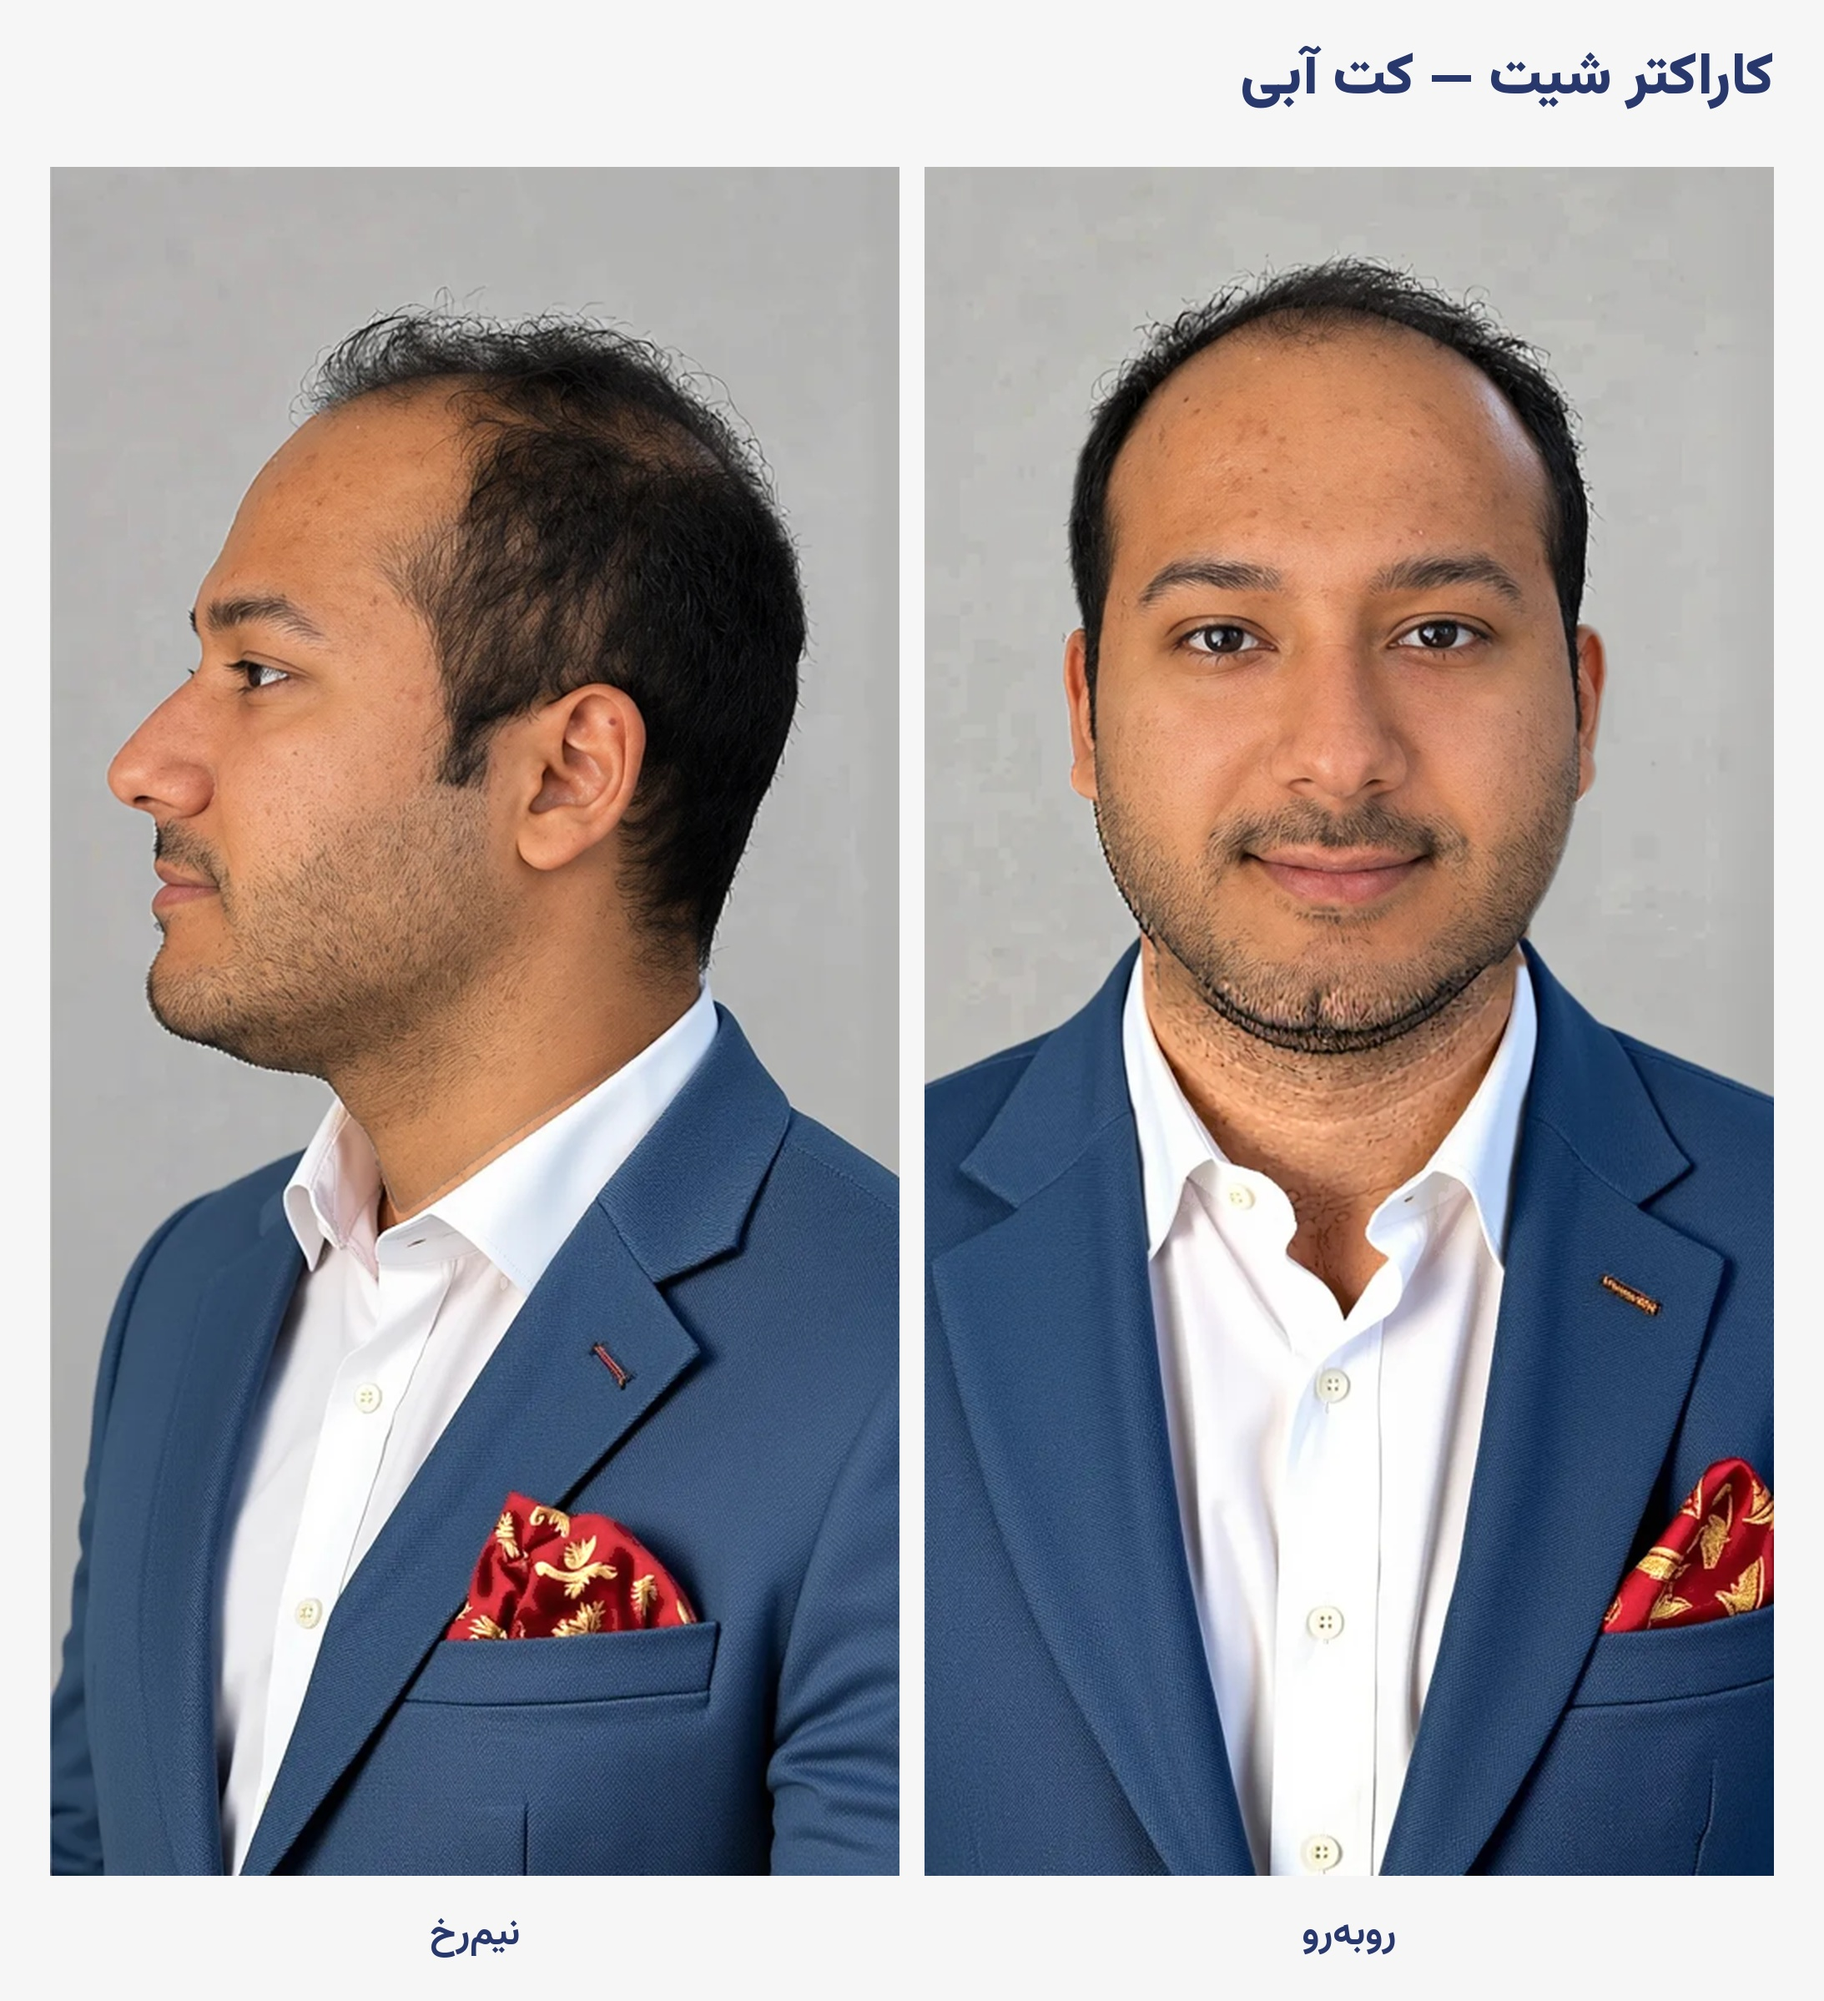
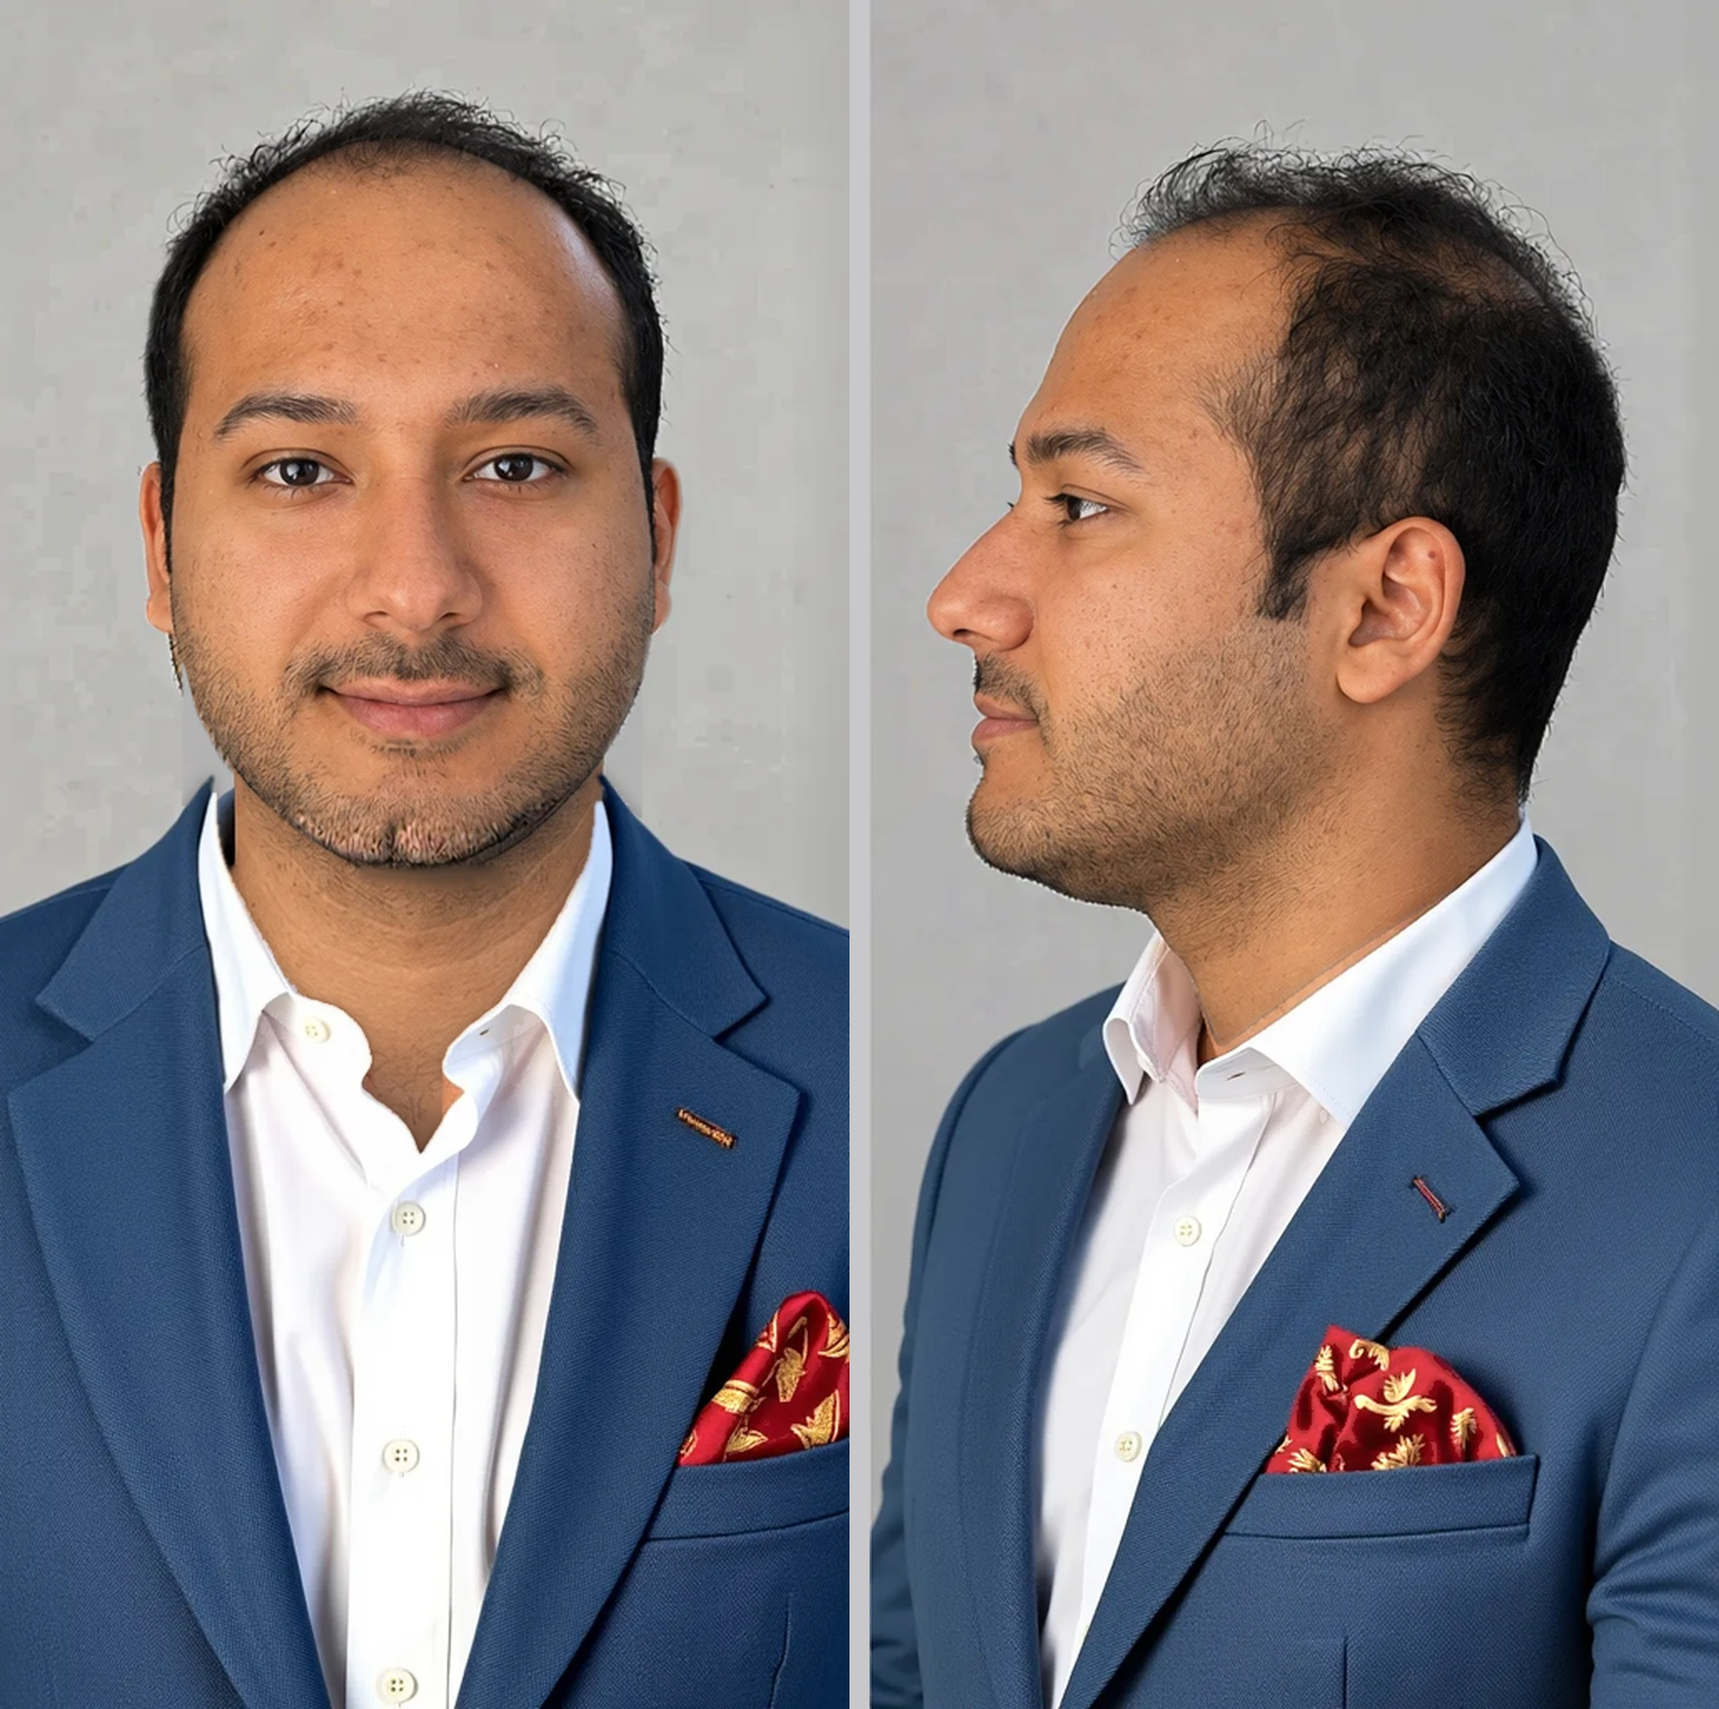
charsheet3: rebuild front-view neck from the real neck; sheet without text
Claude-Session: https://claude.ai/code/session_019xSwsWcuiYfpWtavD3JaNU

diff --git a/studio/photos/charsheet3/fix_neck.py b/studio/photos/charsheet3/fix_neck.py
@@ -1,0 +1,47 @@
+"""Rebuild the front-view neck from the REAL neck in p1, stretched to reach the new shirt collar."""
+import cv2, numpy as np
+F = cv2.imread("f1.png").astype(np.float32); P = cv2.imread("p1.png")
+pl, fl = np.load("p1_lm.npy"), np.load("f1_lm.npy")
+h, w = F.shape[:2]
+# 1. real neck in p1 with the polo (collar + placket) inpainted away
+b, g, r = [P[..., i].astype(int) for i in range(3)]
+polo = ((b > r + 10) | (P.mean(2) < 70)) & (np.arange(P.shape[0])[:, None] > pl[152][1] + 4)
+polo = cv2.dilate(polo.astype(np.uint8), np.ones((7, 7), np.uint8))
+Pn = cv2.inpaint(P, polo, 15, cv2.INPAINT_TELEA).astype(np.float32)
+# 2. map: head similarity (p1 -> f1), plus a stretch below the chin so the neck reaches the collar
+M, _ = cv2.estimateAffinePartial2D(pl, fl)
+cp, cf = pl[152], fl[152]
+SY, SX = 1.25, 1.18                         # below-chin vertical / horizontal stretch (new collar sits lower & wider)
+yy, xx = np.mgrid[0:h, 0:w].astype(np.float32)
+s = np.sqrt(M[0, 0] ** 2 + M[1, 0] ** 2)
+dy = np.clip(yy - cf[1], 0, None)
+src_y = cp[1] + (yy - cf[1]) / s - dy / s * (1 - 1 / SY)
+src_x = cp[0] + (xx - cf[0]) / s / np.where(yy > cf[1], 1 + (SX - 1) * np.clip(dy / 60, 0, 1), 1)
+neck_src = cv2.remap(Pn, src_x.astype(np.float32), src_y.astype(np.float32), cv2.INTER_CUBIC, borderMode=cv2.BORDER_REPLICATE)
+# 3. where to paste: below the jaw line, not on shirt/jacket, inside the neck column
+Lf = cv2.cvtColor(F.astype(np.uint8), cv2.COLOR_BGR2LAB).astype(np.float32)
+cloth = ((Lf[..., 0] > 200) & (np.abs(Lf[..., 1] - 128) < 8)) | (F[..., 0] > F[..., 2] + 25)
+cloth = cv2.morphologyEx(cloth.astype(np.uint8), cv2.MORPH_OPEN, np.ones((3, 3), np.uint8)) > 0
+JAW = [234, 93, 132, 58, 172, 136, 150, 149, 176, 148, 152, 377, 400, 378, 379, 365, 397, 288, 361, 323, 454]
+jaw = fl[JAW]
+below = np.zeros((h, w), np.uint8)
+poly = np.vstack([jaw, [[jaw[-1][0], h], [jaw[0][0], h]]]).astype(np.int32)
+cv2.fillPoly(below, [poly], 1)
+m = (below > 0) & ~cloth & (yy < cf[1] + 220)
+# only above the first shirt/jacket pixel of each column (shirt shadows are not neck)
+first = np.full(w, h)
+for x in range(w):
+    c = np.nonzero(cloth[int(cf[1]):, x])[0]
+    if len(c): first[x] = int(cf[1]) + c[0]
+m &= yy < first[None, :]
+m &= (xx > jaw[:, 0].min() + 4) & (xx < jaw[:, 0].max() - 4)
+m = cv2.morphologyEx(m.astype(np.uint8), cv2.MORPH_OPEN, np.ones((3, 3), np.uint8)).astype(np.float32)
+# soft at the jaw (keeps the real beard edge), crisp at the collar
+jawsoft = np.clip((yy - np.interp(xx, jaw[:, 0], jaw[:, 1])) / 6.0, 0, 1)
+a = (cv2.GaussianBlur(m, (0, 0), 1.0) * jawsoft)[..., None]
+out = F * (1 - a) + neck_src * a
+# collar casts a little shadow on the neck
+cl = cv2.dilate(cloth.astype(np.uint8), np.ones((3, 3), np.uint8)).astype(np.float32)
+shadow = cv2.GaussianBlur(cl, (0, 0), 4) * m * 0.22
+out *= (1 - shadow[..., None])
+cv2.imwrite("f1_fixed.png", np.clip(out, 0, 255).astype(np.uint8)); print("ok")
